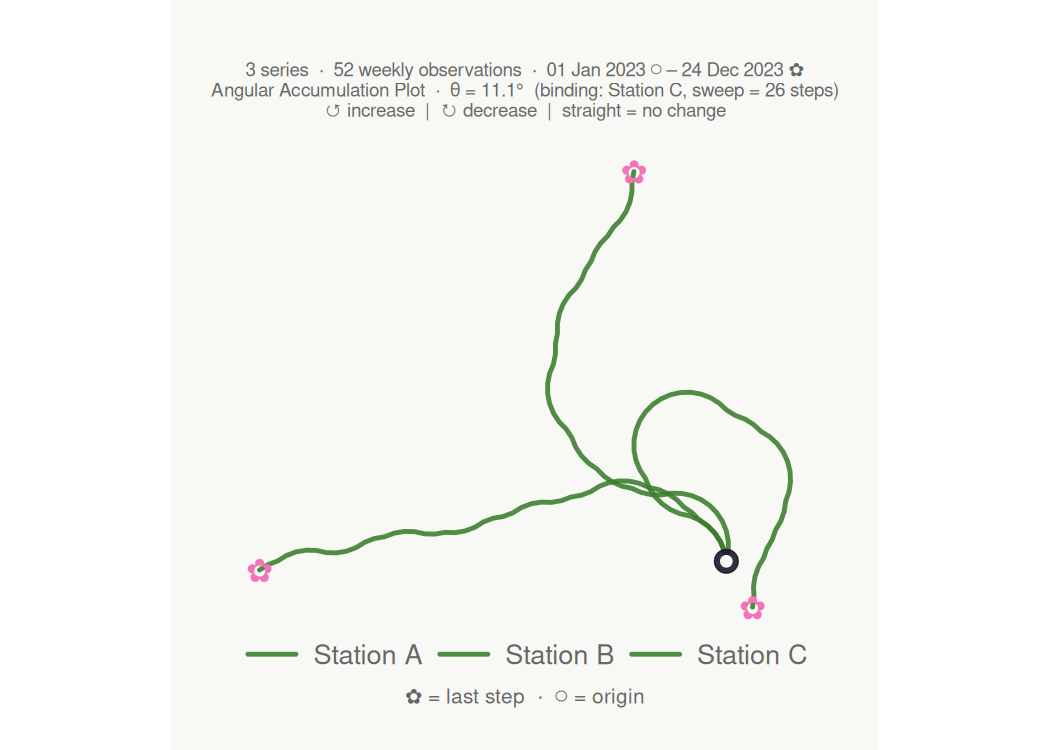
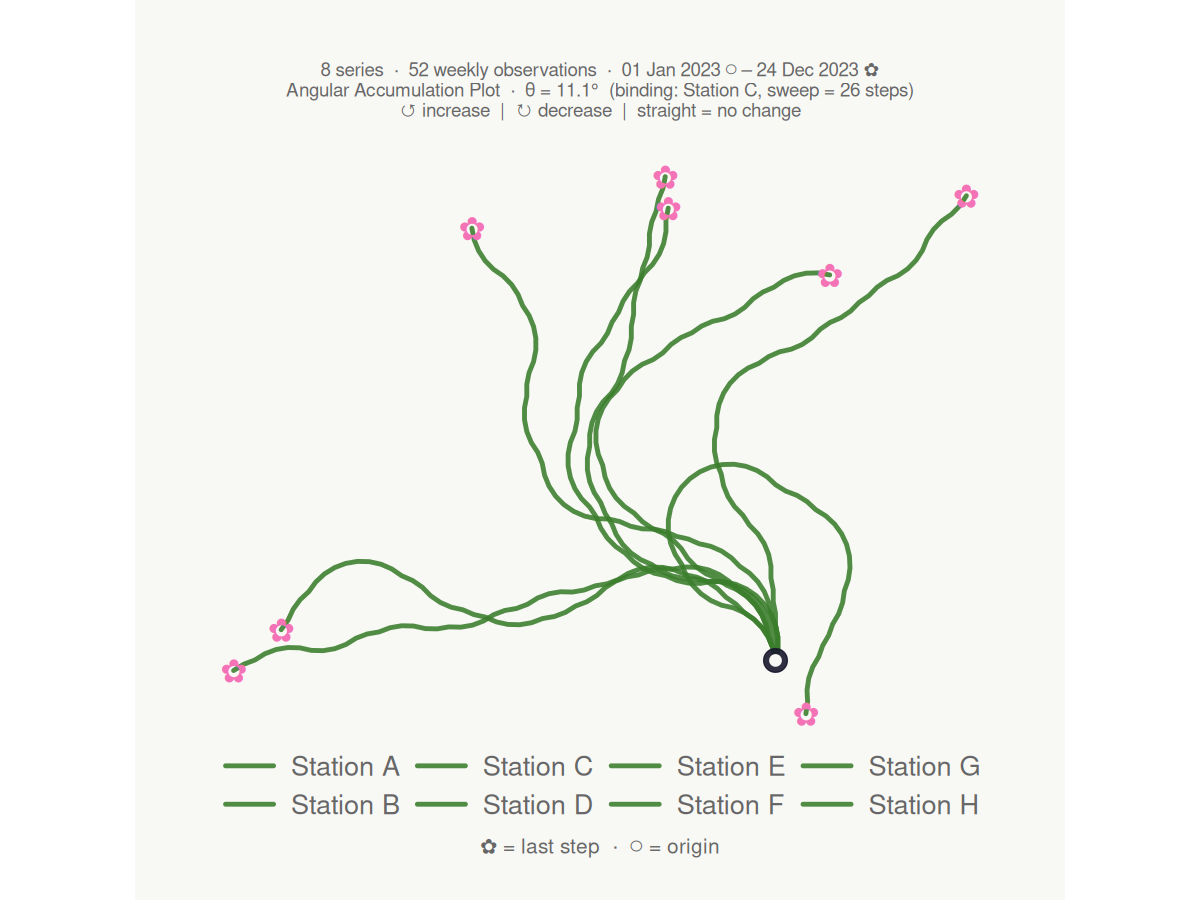
vignette and readme rerendered

diff --git a/README.md b/README.md
@@ -51,13 +51,19 @@ weeks  <- seq(as.Date("2023-01-01"), by = "week", length.out = n)
 season <- sin(seq(0, 2 * pi, length.out = n))
 
 gw_long <- tibble::tibble(
-  week    = rep(weeks, 3L),
-  station = rep(c("Station A", "Station B", "Station C"), each = n),
-  region  = rep(c("North", "North", "South"), each = n),
+  week    = rep(weeks, 8L),
+  station = rep(paste0("Station ", LETTERS[1:8]), each = n),
+  region  = rep(c("North", "North", "North", "North",
+                  "South", "South", "South", "South"), each = n),
   level_m = c(
     8.5 + 0.8 * season + cumsum(rnorm(n,  0.00, 0.18)),
     7.2 + 0.5 * season + cumsum(rnorm(n,  0.02, 0.22)),
-    9.1 + 1.1 * season + cumsum(rnorm(n, -0.01, 0.15))
+    9.1 + 1.1 * season + cumsum(rnorm(n, -0.01, 0.15)),
+    6.8 + 0.9 * season + cumsum(rnorm(n,  0.01, 0.20)),
+    5.4 + 1.2 * season + cumsum(rnorm(n, -0.02, 0.17)),
+    7.7 + 0.6 * season + cumsum(rnorm(n,  0.00, 0.21)),
+    8.9 + 0.7 * season + cumsum(rnorm(n,  0.01, 0.19)),
+    6.2 + 1.0 * season + cumsum(rnorm(n, -0.01, 0.16))
   )
 )
 
@@ -137,24 +143,7 @@ sequences and appends a `cluster` column that plugs directly into
 
 ``` r
 set.seed(7)
-n2     <- 52L
-sea2   <- sin(seq(0, 2 * pi, length.out = n2))
-wks2   <- seq(as.Date("2023-01-01"), by = "week", length.out = n2)
-
-gw6 <- tibble::tibble(
-  week    = rep(wks2, 6L),
-  station = rep(paste0("S", 1:6), each = n2),
-  level_m = c(
-    8.5 + 0.8 * sea2 + cumsum(rnorm(n2,  0.00, 0.2)),
-    8.3 + 0.7 * sea2 + cumsum(rnorm(n2,  0.01, 0.2)),
-    7.2 + 0.5 * sea2 + cumsum(rnorm(n2,  0.02, 0.2)),
-    7.0 + 0.6 * sea2 + cumsum(rnorm(n2,  0.00, 0.2)),
-    9.1 + 1.1 * sea2 + cumsum(rnorm(n2, -0.01, 0.2)),
-    9.3 + 1.0 * sea2 + cumsum(rnorm(n2, -0.02, 0.2))
-  )
-)
-
-gw6 |>
+gw_long |>
   cluster_bouquet(
     time_col   = week,
     series_col = station,
@@ -182,9 +171,10 @@ bouquet. Any projected CRS is handled via `coord_crs`
 (e.g. `coord_crs = 3035` for ETRS89-LAEA).
 
 ``` r
+# Stations spread across Germany north to south, coast to border
 gw_coords <- dplyr::mutate(gw_long,
-  lon = c(rep(9.9, n), rep(13.4, n), rep(8.7, n)),
-  lat = c(rep(51.5, n), rep(52.5, n), rep(50.1, n))
+  lon = rep(c(6.9, 13.4, 9.9, 12.1, 7.5, 11.2, 8.7, 14.8), each = n),
+  lat = rep(c(53.6, 52.5, 51.5, 48.1, 51.2, 49.8, 47.8, 50.9), each = n)
 )
 
 make_plot_bouquet(gw_coords,
@@ -193,7 +183,7 @@ make_plot_bouquet(gw_coords,
   value_col  = level_m,
   lon_col    = lon,
   lat_col    = lat,
-  map_width  = 0.35,
+  map_width  = 0.38,
   verbose    = FALSE
 )
 ```
@@ -205,16 +195,17 @@ make_plot_bouquet(gw_coords,
 ## How it works
 
 For each series, the signed first difference is binarised to +1
-(increase), −1 (decrease), or 0 (no change). The heading at step *i* is:
+(increase), -1 (decrease), or 0 (no change). The heading at step *i*
+accumulates as:
 
-$$h_i = h_{\text{launch}} + \sum_{k=2}^{i} d_k \cdot \theta$$
+> *h*\_i = *h*\_launch + sum(*d*\_k x theta) for k = 2..i
 
-The angle θ is derived so that even the most volatile series in the
+The angle theta is derived so that even the most volatile series in the
 dataset never completes a full loop:
 
-$$\theta = \frac{360°}{\max_s(\max C_s - \min C_s)} \times \texttt{ceiling\_pct}$$
+> theta = 360 / max_over_series(max(C) - min(C)) x ceiling_pct
 
-where *C*ₛ is the cumulative sum of signed steps for series *s*. All
+where *C* is the cumulative sum of signed steps for each series. All
 coordinates follow as a vectorised `cumsum(cos(heading))` /
 `cumsum(sin(heading))`.
 
@@ -232,7 +223,7 @@ If you use bouquets in a publication, please cite it as:
 ## References
 
 Gates, M. A. (1986). A simple way to look at DNA. *Journal of
-Theoretical Biology*, 119(3), 319–328.
+Theoretical Biology*, 119(3), 319-328.
 
 Yau, S. S.-T., et al. (2003). DNA sequence representation without
-degeneracy. *Nucleic Acids Research*, 31(12), 3078–3080.
+degeneracy. *Nucleic Acids Research*, 31(12), 3078-3080.
